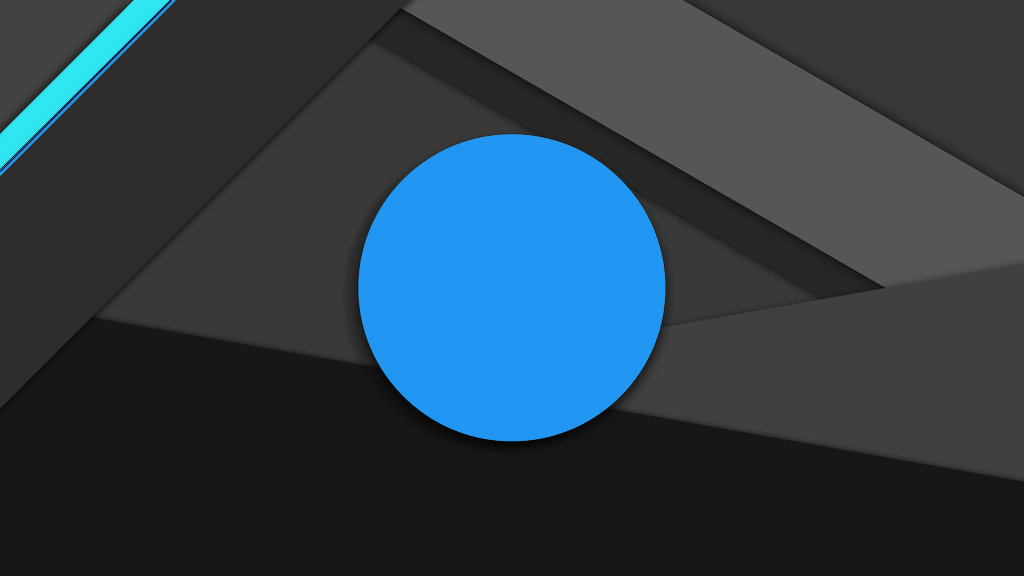
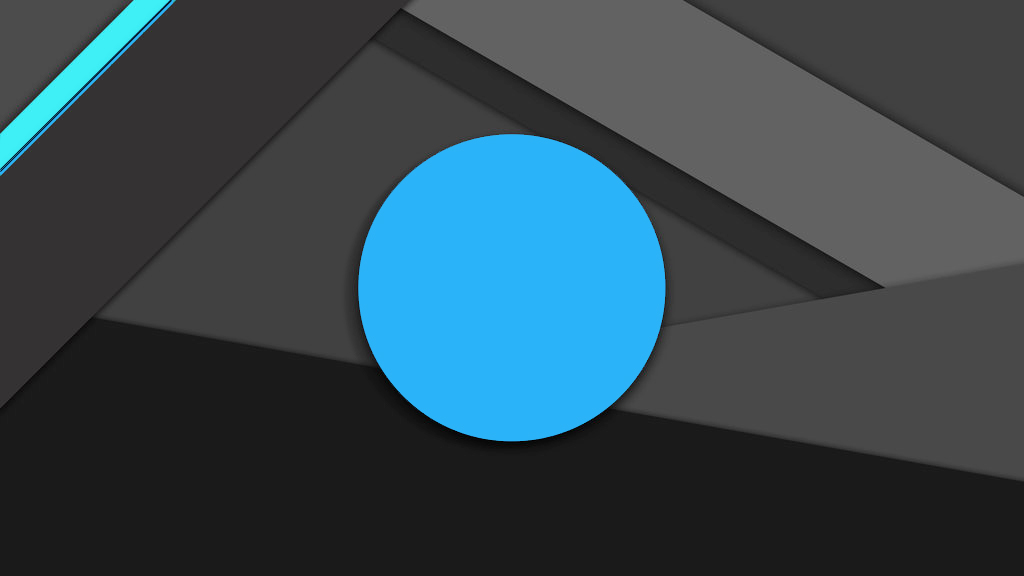
Layout Update

Changed region(s): [[0.3438, 0.2188, 0.6562, 0.7812]]

diff --git a/index.html b/index.html
@@ -152,7 +152,7 @@
                               <a class="content-wrapper-link"></a>
                           </div>
                         </div>
-                      </div>
+
                         <div class="col-sm-4 sm-margin-b-4">
                             <div class="service" data-height="height">
                                 <div class="service-element">
@@ -181,6 +181,7 @@
                     <!--// end row -->
                 </div>
             </div>
+        </div>
         </div>
         <!-- End Service -->
         <div id="ss">

diff --git a/css/layout.css b/css/layout.css
@@ -359,7 +359,7 @@ fieldset[disabled] .btn-theme {
 .promo-banner .promo-banner-text {
   font-size: 20px;
   color: #fff;
-  opacity: .8;
+  opacity: 0.8;
 }
 
 /*------------------------------------------------------------------
@@ -369,7 +369,7 @@ fieldset[disabled] .btn-theme {
   position: relative;
   z-index: 1;
   text-align: center;
-  background: url(../img/1920x1080/01.png) no-repeat;
+  background: url(../img/1920x1080/01.jpg) no-repeat;
   background-size: cover;
   background-position: center center;
   padding: 250px 0 200px;
